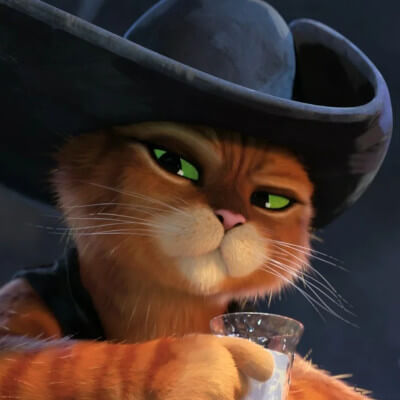
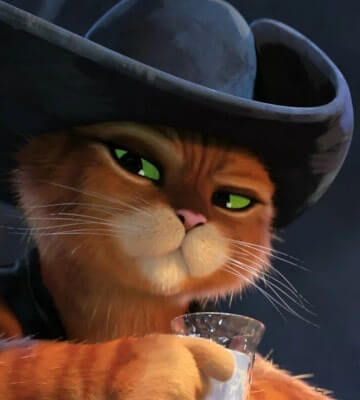
alla-ricerca-del-gatto-che-non-c-e.html: table width fixed

diff --git a/html/alla-ricerca-del-gatto-che-non-c-e.html b/html/alla-ricerca-del-gatto-che-non-c-e.html
@@ -19,7 +19,7 @@ Una challenge su Facebook invita a cercare un gatto in questa immagine (quella a
 <p/>
 <center><table id='table-001'><tr><th> find the cat! </th><th> cat is not here! </th></tr>
 <tr class='trline'><td></td><td></td></tr>
-<tr><td> <div align="center"><img src="../data/find-the-cat-among-faces.jpg" width="400"><br/><i>click destro per ingrandire in una nuova finestra</i></div> </td><td> <div align="center"><img src="../img/il-gatto-con-gli-stivali.jpg" width="400"><br/><i>il nostro eroe che si è smarrito...</i></div> </td></tr>
+<tr><td> <div align="center"><img src="../data/find-the-cat-among-faces.jpg" width="400"><br/><i>click destro per ingrandire in una nuova finestra</i></div> </td><td> <div align="center"><img src="../img/il-gatto-con-gli-stivali.jpg" width="360"><br/><i>il nostro eroe che si è smarrito...</i></div> </td></tr>
 </table>
 </center><p/>
 </div>

diff --git a/alla-ricerca-del-gatto-che-non-c-e.md b/alla-ricerca-del-gatto-che-non-c-e.md
@@ -16,7 +16,7 @@ Una challenge su Facebook invita a cercare un gatto in questa immagine (quella a
 
 | find the cat! | cat is not here! |
 |---|---|
-| <div align="center"><img src="data/find-the-cat-among-faces.jpg" width="400"><br/><i>click destro per ingrandire in una nuova finestra</i></div> | <div align="center"><img src="img/il-gatto-con-gli-stivali.jpg" width="400"><br/><i>il nostro eroe che si è smarrito...</i></div> |
+| <div align="center"><img src="data/find-the-cat-among-faces.jpg" width="400"><br/><i>click destro per ingrandire in una nuova finestra</i></div> | <div align="center"><img src="img/il-gatto-con-gli-stivali.jpg" width="360"><br/><i>il nostro eroe che si è smarrito...</i></div> |
 
 </div>
 
